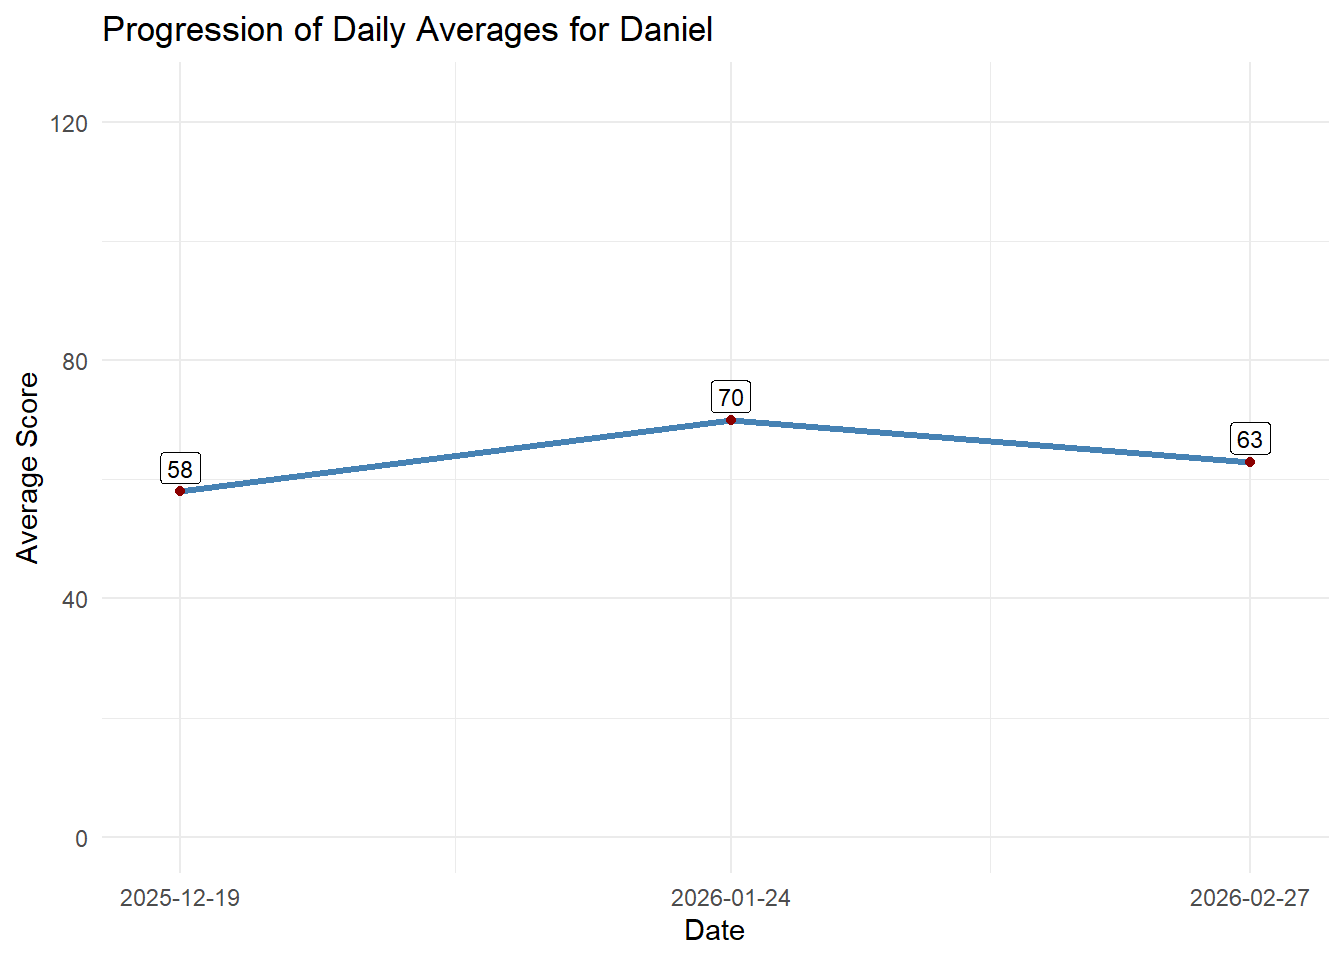
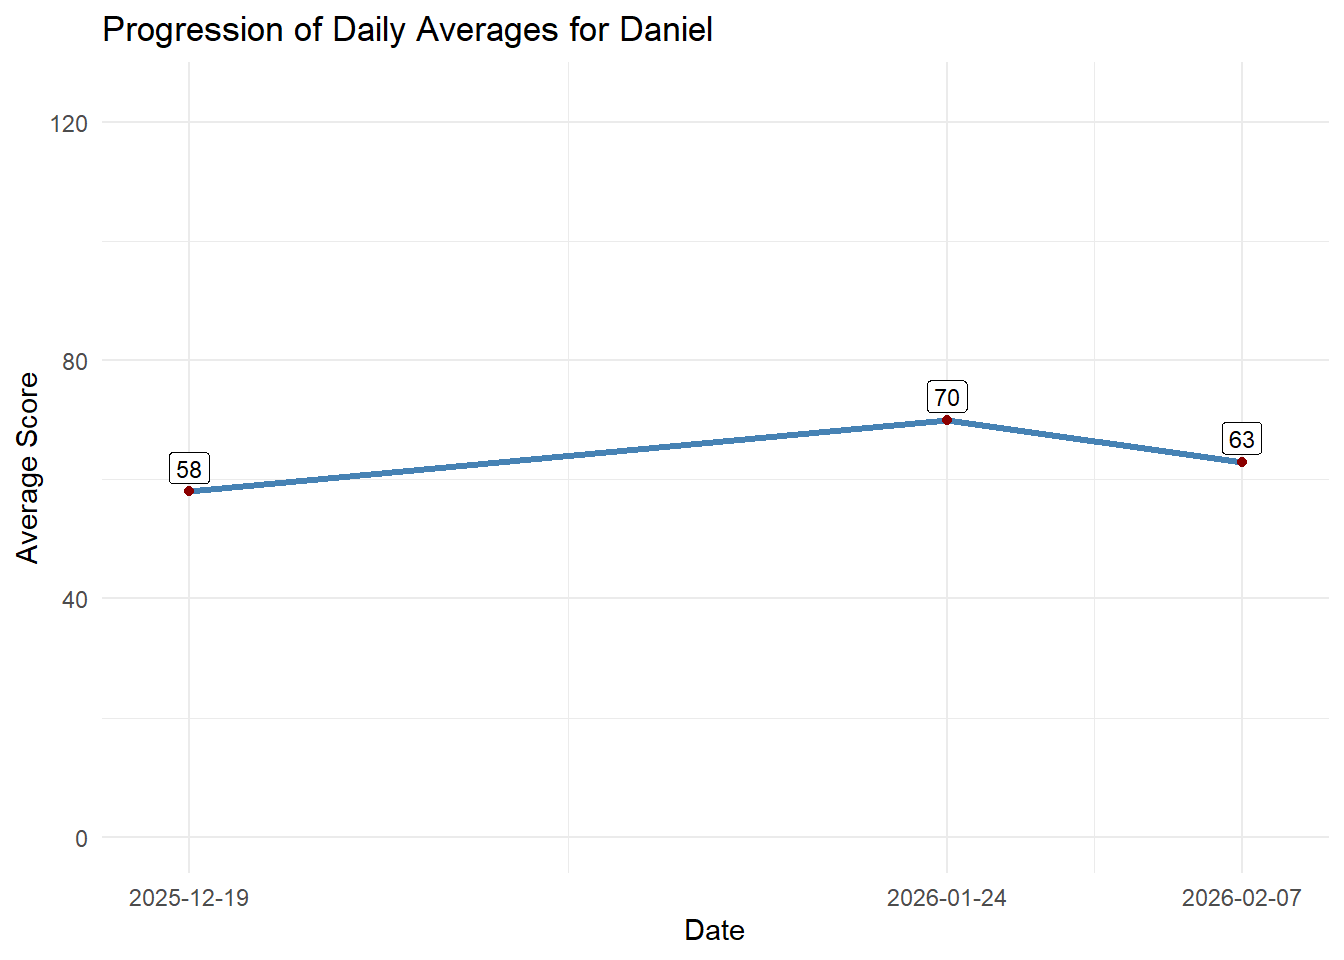
fixed date of 3rd session

diff --git a/docs/sessions.html b/docs/sessions.html
@@ -175,11 +175,11 @@ ul.task-list li input[type="checkbox"] {
 
 <p>The sessions are sorted from new to old.</p>
 <section id="section" class="level2">
-<h2 class="anchored" data-anchor-id="section">27.02.2026</h2>
+<h2 class="anchored" data-anchor-id="section">07.02.2026</h2>
 <div class="cell">
 <div class="cell-output-display">
-<div class="datatables html-widget html-fill-item" id="htmlwidget-2d5ab5caae5f20612820" style="width:100%;height:auto;"></div>
-<script type="application/json" data-for="htmlwidget-2d5ab5caae5f20612820">{"x":{"filter":"none","vertical":false,"data":[["1","2","3","4"],["Niko","Anatolii","Julia","Daniel"],[81,71,63,49],[124,74,68,82],[82,81,70,59],[95.7,75.3,67,63.3],[24.5,5.1,3.6,16.9],[2,2,0,0]],"container":"<table class=\"display\">\n  <thead>\n    <tr>\n      <th> <\/th>\n      <th>Player<\/th>\n      <th>Round 1<\/th>\n      <th>Round 2<\/th>\n      <th>Round 3<\/th>\n      <th>Average Score<\/th>\n      <th>Score Standard Deviation<\/th>\n      <th>Strikes<\/th>\n    <\/tr>\n  <\/thead>\n<\/table>","options":{"dom":"t","paging":false,"searching":false,"info":false,"lengthChange":false,"columnDefs":[{"orderSequence":["desc","asc"],"targets":"_all"},{"className":"dt-right","targets":[2,3,4,5,6,7]},{"orderable":false,"targets":0},{"name":" ","targets":0},{"name":"Player","targets":1},{"name":"Round 1","targets":2},{"name":"Round 2","targets":3},{"name":"Round 3","targets":4},{"name":"Average Score","targets":5},{"name":"Score Standard Deviation","targets":6},{"name":"Strikes","targets":7}],"order":[],"autoWidth":false,"orderClasses":false}},"evals":[],"jsHooks":[]}</script>
+<div class="datatables html-widget html-fill-item" id="htmlwidget-451b7fa52ce0093a3e28" style="width:100%;height:auto;"></div>
+<script type="application/json" data-for="htmlwidget-451b7fa52ce0093a3e28">{"x":{"filter":"none","vertical":false,"data":[["1","2","3","4"],["Niko","Anatolii","Julia","Daniel"],[81,71,63,49],[124,74,68,82],[82,81,70,59],[95.7,75.3,67,63.3],[24.5,5.1,3.6,16.9],[2,2,0,0]],"container":"<table class=\"display\">\n  <thead>\n    <tr>\n      <th> <\/th>\n      <th>Player<\/th>\n      <th>Round 1<\/th>\n      <th>Round 2<\/th>\n      <th>Round 3<\/th>\n      <th>Average Score<\/th>\n      <th>Score Standard Deviation<\/th>\n      <th>Strikes<\/th>\n    <\/tr>\n  <\/thead>\n<\/table>","options":{"dom":"t","paging":false,"searching":false,"info":false,"lengthChange":false,"columnDefs":[{"orderSequence":["desc","asc"],"targets":"_all"},{"className":"dt-right","targets":[2,3,4,5,6,7]},{"orderable":false,"targets":0},{"name":" ","targets":0},{"name":"Player","targets":1},{"name":"Round 1","targets":2},{"name":"Round 2","targets":3},{"name":"Round 3","targets":4},{"name":"Average Score","targets":5},{"name":"Score Standard Deviation","targets":6},{"name":"Strikes","targets":7}],"order":[],"autoWidth":false,"orderClasses":false}},"evals":[],"jsHooks":[]}</script>
 </div>
 </div>
 </section>
@@ -187,8 +187,8 @@ ul.task-list li input[type="checkbox"] {
 <h2 class="anchored" data-anchor-id="section-1">24.01.2026</h2>
 <div class="cell">
 <div class="cell-output-display">
-<div class="datatables html-widget html-fill-item" id="htmlwidget-d58d419d79e0c2dc8a2f" style="width:100%;height:auto;"></div>
-<script type="application/json" data-for="htmlwidget-d58d419d79e0c2dc8a2f">{"x":{"filter":"none","vertical":false,"data":[["1","2","3","4","5"],["Niko","Anatolii","Daniel","Julia","Flora"],[73,73,82,65,46],[101,70,54,81,81],[86,71,75,64,72],[86.7,71.3,70.3,70,66.3],[14,1.5,14.6,9.5,18.2],[2,2,0,3,1]],"container":"<table class=\"display\">\n  <thead>\n    <tr>\n      <th> <\/th>\n      <th>Player<\/th>\n      <th>Round 1<\/th>\n      <th>Round 2<\/th>\n      <th>Round 3<\/th>\n      <th>Average Score<\/th>\n      <th>Score Standard Deviation<\/th>\n      <th>Strikes<\/th>\n    <\/tr>\n  <\/thead>\n<\/table>","options":{"dom":"t","paging":false,"searching":false,"info":false,"lengthChange":false,"columnDefs":[{"orderSequence":["desc","asc"],"targets":"_all"},{"className":"dt-right","targets":[2,3,4,5,6,7]},{"orderable":false,"targets":0},{"name":" ","targets":0},{"name":"Player","targets":1},{"name":"Round 1","targets":2},{"name":"Round 2","targets":3},{"name":"Round 3","targets":4},{"name":"Average Score","targets":5},{"name":"Score Standard Deviation","targets":6},{"name":"Strikes","targets":7}],"order":[],"autoWidth":false,"orderClasses":false}},"evals":[],"jsHooks":[]}</script>
+<div class="datatables html-widget html-fill-item" id="htmlwidget-5ad655e97ea06177efaf" style="width:100%;height:auto;"></div>
+<script type="application/json" data-for="htmlwidget-5ad655e97ea06177efaf">{"x":{"filter":"none","vertical":false,"data":[["1","2","3","4","5"],["Niko","Anatolii","Daniel","Julia","Flora"],[73,73,82,65,46],[101,70,54,81,81],[86,71,75,64,72],[86.7,71.3,70.3,70,66.3],[14,1.5,14.6,9.5,18.2],[2,2,0,3,1]],"container":"<table class=\"display\">\n  <thead>\n    <tr>\n      <th> <\/th>\n      <th>Player<\/th>\n      <th>Round 1<\/th>\n      <th>Round 2<\/th>\n      <th>Round 3<\/th>\n      <th>Average Score<\/th>\n      <th>Score Standard Deviation<\/th>\n      <th>Strikes<\/th>\n    <\/tr>\n  <\/thead>\n<\/table>","options":{"dom":"t","paging":false,"searching":false,"info":false,"lengthChange":false,"columnDefs":[{"orderSequence":["desc","asc"],"targets":"_all"},{"className":"dt-right","targets":[2,3,4,5,6,7]},{"orderable":false,"targets":0},{"name":" ","targets":0},{"name":"Player","targets":1},{"name":"Round 1","targets":2},{"name":"Round 2","targets":3},{"name":"Round 3","targets":4},{"name":"Average Score","targets":5},{"name":"Score Standard Deviation","targets":6},{"name":"Strikes","targets":7}],"order":[],"autoWidth":false,"orderClasses":false}},"evals":[],"jsHooks":[]}</script>
 </div>
 </div>
 </section>
@@ -196,8 +196,8 @@ ul.task-list li input[type="checkbox"] {
 <h2 class="anchored" data-anchor-id="section-2">19.12.2025</h2>
 <div class="cell">
 <div class="cell-output-display">
-<div class="datatables html-widget html-fill-item" id="htmlwidget-bae278842bcefbea813b" style="width:100%;height:auto;"></div>
-<script type="application/json" data-for="htmlwidget-bae278842bcefbea813b">{"x":{"filter":"none","vertical":false,"data":[["1","2","3","4","5"],["Niko","Anatolii","Julia","Flora","Daniel"],[73,61,66,105,48],[97,79,79,51,77],[90,101,79,43,49],[86.7,80.3,74.7,66.3,58],[12.3,20,7.5,33.7,16.5],[3,2,0,2,1]],"container":"<table class=\"display\">\n  <thead>\n    <tr>\n      <th> <\/th>\n      <th>Player<\/th>\n      <th>Round 1<\/th>\n      <th>Round 2<\/th>\n      <th>Round 3<\/th>\n      <th>Average Score<\/th>\n      <th>Score Standard Deviation<\/th>\n      <th>Strikes<\/th>\n    <\/tr>\n  <\/thead>\n<\/table>","options":{"dom":"t","paging":false,"searching":false,"info":false,"lengthChange":false,"columnDefs":[{"orderSequence":["desc","asc"],"targets":"_all"},{"className":"dt-right","targets":[2,3,4,5,6,7]},{"orderable":false,"targets":0},{"name":" ","targets":0},{"name":"Player","targets":1},{"name":"Round 1","targets":2},{"name":"Round 2","targets":3},{"name":"Round 3","targets":4},{"name":"Average Score","targets":5},{"name":"Score Standard Deviation","targets":6},{"name":"Strikes","targets":7}],"order":[],"autoWidth":false,"orderClasses":false}},"evals":[],"jsHooks":[]}</script>
+<div class="datatables html-widget html-fill-item" id="htmlwidget-06abafb8ae99760b7fad" style="width:100%;height:auto;"></div>
+<script type="application/json" data-for="htmlwidget-06abafb8ae99760b7fad">{"x":{"filter":"none","vertical":false,"data":[["1","2","3","4","5"],["Niko","Anatolii","Julia","Flora","Daniel"],[73,61,66,105,48],[97,79,79,51,77],[90,101,79,43,49],[86.7,80.3,74.7,66.3,58],[12.3,20,7.5,33.7,16.5],[3,2,0,2,1]],"container":"<table class=\"display\">\n  <thead>\n    <tr>\n      <th> <\/th>\n      <th>Player<\/th>\n      <th>Round 1<\/th>\n      <th>Round 2<\/th>\n      <th>Round 3<\/th>\n      <th>Average Score<\/th>\n      <th>Score Standard Deviation<\/th>\n      <th>Strikes<\/th>\n    <\/tr>\n  <\/thead>\n<\/table>","options":{"dom":"t","paging":false,"searching":false,"info":false,"lengthChange":false,"columnDefs":[{"orderSequence":["desc","asc"],"targets":"_all"},{"className":"dt-right","targets":[2,3,4,5,6,7]},{"orderable":false,"targets":0},{"name":" ","targets":0},{"name":"Player","targets":1},{"name":"Round 1","targets":2},{"name":"Round 2","targets":3},{"name":"Round 3","targets":4},{"name":"Average Score","targets":5},{"name":"Score Standard Deviation","targets":6},{"name":"Strikes","targets":7}],"order":[],"autoWidth":false,"orderClasses":false}},"evals":[],"jsHooks":[]}</script>
 </div>
 </div>
 

diff --git a/docs/index.html b/docs/index.html
@@ -175,8 +175,8 @@ ul.task-list li input[type="checkbox"] {
 
 <div class="cell">
 <div class="cell-output-display">
-<div class="datatables html-widget html-fill-item" id="htmlwidget-2e87569fb5321fa95211" style="width:100%;height:auto;"></div>
-<script type="application/json" data-for="htmlwidget-2e87569fb5321fa95211">{"x":{"filter":"none","vertical":false,"data":[["1","2","3","4","5"],["Niko","Anatolii","Julia","Flora","Daniel"],[9,9,9,6,9],[89.7,75.7,70.59999999999999,66.3,63.9],[124,101,81,105,82],[73,61,63,43,48],[16.1,11.1,7.2,24.2,14.9],[0.8,0.7,0.3,0.5,0.1]],"container":"<table class=\"display\">\n  <thead>\n    <tr>\n      <th> <\/th>\n      <th>Player<\/th>\n      <th>Total Rounds Played<\/th>\n      <th>Average Score<\/th>\n      <th>Best Score<\/th>\n      <th>Worst Score<\/th>\n      <th>Score Standard Deviation<\/th>\n      <th>Strikes/ Game<\/th>\n    <\/tr>\n  <\/thead>\n<\/table>","options":{"dom":"t","paging":false,"searching":false,"info":false,"lengthChange":false,"columnDefs":[{"orderSequence":["desc","asc"],"targets":"_all"},{"className":"dt-right","targets":[2,3,4,5,6,7]},{"orderable":false,"targets":0},{"name":" ","targets":0},{"name":"Player","targets":1},{"name":"Total Rounds Played","targets":2},{"name":"Average Score","targets":3},{"name":"Best Score","targets":4},{"name":"Worst Score","targets":5},{"name":"Score Standard Deviation","targets":6},{"name":"Strikes/ Game","targets":7}],"order":[],"autoWidth":false,"orderClasses":false}},"evals":[],"jsHooks":[]}</script>
+<div class="datatables html-widget html-fill-item" id="htmlwidget-2dc484cc56245abd1d54" style="width:100%;height:auto;"></div>
+<script type="application/json" data-for="htmlwidget-2dc484cc56245abd1d54">{"x":{"filter":"none","vertical":false,"data":[["1","2","3","4","5"],["Niko","Anatolii","Julia","Flora","Daniel"],[9,9,9,6,9],[89.7,75.7,70.59999999999999,66.3,63.9],[124,101,81,105,82],[73,61,63,43,48],[16.1,11.1,7.2,24.2,14.9],[0.8,0.7,0.3,0.5,0.1]],"container":"<table class=\"display\">\n  <thead>\n    <tr>\n      <th> <\/th>\n      <th>Player<\/th>\n      <th>Total Rounds Played<\/th>\n      <th>Average Score<\/th>\n      <th>Best Score<\/th>\n      <th>Worst Score<\/th>\n      <th>Score Standard Deviation<\/th>\n      <th>Strikes/ Game<\/th>\n    <\/tr>\n  <\/thead>\n<\/table>","options":{"dom":"t","paging":false,"searching":false,"info":false,"lengthChange":false,"columnDefs":[{"orderSequence":["desc","asc"],"targets":"_all"},{"className":"dt-right","targets":[2,3,4,5,6,7]},{"orderable":false,"targets":0},{"name":" ","targets":0},{"name":"Player","targets":1},{"name":"Total Rounds Played","targets":2},{"name":"Average Score","targets":3},{"name":"Best Score","targets":4},{"name":"Worst Score","targets":5},{"name":"Score Standard Deviation","targets":6},{"name":"Strikes/ Game","targets":7}],"order":[],"autoWidth":false,"orderClasses":false}},"evals":[],"jsHooks":[]}</script>
 </div>
 </div>
 

diff --git a/docs/players/julia.html b/docs/players/julia.html
@@ -175,8 +175,8 @@ ul.task-list li input[type="checkbox"] {
 <h2 class="anchored" data-anchor-id="stats-overview">Stats Overview</h2>
 <div class="cell">
 <div class="cell-output-display">
-<div class="datatables html-widget html-fill-item" id="htmlwidget-33df0b5c3f3cdd957ced" style="width:100%;height:auto;"></div>
-<script type="application/json" data-for="htmlwidget-33df0b5c3f3cdd957ced">{"x":{"filter":"none","vertical":false,"data":[[9],[81],[63],[70.59999999999999],[7.2],[0.3]],"container":"<table class=\"display\">\n  <thead>\n    <tr>\n      <th>Total Rounds Played<\/th>\n      <th>Highest Score<\/th>\n      <th>Lowest Score<\/th>\n      <th>Average Score<\/th>\n      <th>Score Standard Deviation<\/th>\n      <th>Strikes/ Game<\/th>\n    <\/tr>\n  <\/thead>\n<\/table>","options":{"dom":"t","paging":false,"searching":false,"info":false,"lengthChange":false,"columnDefs":[{"className":"dt-right","targets":[0,1,2,3,4,5]},{"name":"Total Rounds Played","targets":0},{"name":"Highest Score","targets":1},{"name":"Lowest Score","targets":2},{"name":"Average Score","targets":3},{"name":"Score Standard Deviation","targets":4},{"name":"Strikes/ Game","targets":5}],"order":[],"autoWidth":false,"orderClasses":false}},"evals":[],"jsHooks":[]}</script>
+<div class="datatables html-widget html-fill-item" id="htmlwidget-b8df6499a0a86f296850" style="width:100%;height:auto;"></div>
+<script type="application/json" data-for="htmlwidget-b8df6499a0a86f296850">{"x":{"filter":"none","vertical":false,"data":[[9],[81],[63],[70.59999999999999],[7.2],[0.3]],"container":"<table class=\"display\">\n  <thead>\n    <tr>\n      <th>Total Rounds Played<\/th>\n      <th>Highest Score<\/th>\n      <th>Lowest Score<\/th>\n      <th>Average Score<\/th>\n      <th>Score Standard Deviation<\/th>\n      <th>Strikes/ Game<\/th>\n    <\/tr>\n  <\/thead>\n<\/table>","options":{"dom":"t","paging":false,"searching":false,"info":false,"lengthChange":false,"columnDefs":[{"className":"dt-right","targets":[0,1,2,3,4,5]},{"name":"Total Rounds Played","targets":0},{"name":"Highest Score","targets":1},{"name":"Lowest Score","targets":2},{"name":"Average Score","targets":3},{"name":"Score Standard Deviation","targets":4},{"name":"Strikes/ Game","targets":5}],"order":[],"autoWidth":false,"orderClasses":false}},"evals":[],"jsHooks":[]}</script>
 </div>
 </div>
 </section>

diff --git a/docs/players/anatolii.html b/docs/players/anatolii.html
@@ -175,8 +175,8 @@ ul.task-list li input[type="checkbox"] {
 <h2 class="anchored" data-anchor-id="stats-overview">Stats Overview</h2>
 <div class="cell">
 <div class="cell-output-display">
-<div class="datatables html-widget html-fill-item" id="htmlwidget-d4becd0b38454958d956" style="width:100%;height:auto;"></div>
-<script type="application/json" data-for="htmlwidget-d4becd0b38454958d956">{"x":{"filter":"none","vertical":false,"data":[[9],[101],[61],[75.7],[11.1],[0.7]],"container":"<table class=\"display\">\n  <thead>\n    <tr>\n      <th>Total Rounds Played<\/th>\n      <th>Highest Score<\/th>\n      <th>Lowest Score<\/th>\n      <th>Average Score<\/th>\n      <th>Score Standard Deviation<\/th>\n      <th>Strikes/ Game<\/th>\n    <\/tr>\n  <\/thead>\n<\/table>","options":{"dom":"t","paging":false,"searching":false,"info":false,"lengthChange":false,"columnDefs":[{"className":"dt-right","targets":[0,1,2,3,4,5]},{"name":"Total Rounds Played","targets":0},{"name":"Highest Score","targets":1},{"name":"Lowest Score","targets":2},{"name":"Average Score","targets":3},{"name":"Score Standard Deviation","targets":4},{"name":"Strikes/ Game","targets":5}],"order":[],"autoWidth":false,"orderClasses":false}},"evals":[],"jsHooks":[]}</script>
+<div class="datatables html-widget html-fill-item" id="htmlwidget-46a0c90fb6b9b9fbff91" style="width:100%;height:auto;"></div>
+<script type="application/json" data-for="htmlwidget-46a0c90fb6b9b9fbff91">{"x":{"filter":"none","vertical":false,"data":[[9],[101],[61],[75.7],[11.1],[0.7]],"container":"<table class=\"display\">\n  <thead>\n    <tr>\n      <th>Total Rounds Played<\/th>\n      <th>Highest Score<\/th>\n      <th>Lowest Score<\/th>\n      <th>Average Score<\/th>\n      <th>Score Standard Deviation<\/th>\n      <th>Strikes/ Game<\/th>\n    <\/tr>\n  <\/thead>\n<\/table>","options":{"dom":"t","paging":false,"searching":false,"info":false,"lengthChange":false,"columnDefs":[{"className":"dt-right","targets":[0,1,2,3,4,5]},{"name":"Total Rounds Played","targets":0},{"name":"Highest Score","targets":1},{"name":"Lowest Score","targets":2},{"name":"Average Score","targets":3},{"name":"Score Standard Deviation","targets":4},{"name":"Strikes/ Game","targets":5}],"order":[],"autoWidth":false,"orderClasses":false}},"evals":[],"jsHooks":[]}</script>
 </div>
 </div>
 </section>

diff --git a/docs/players/flora.html b/docs/players/flora.html
@@ -175,8 +175,8 @@ ul.task-list li input[type="checkbox"] {
 <h2 class="anchored" data-anchor-id="stats-overview">Stats Overview</h2>
 <div class="cell">
 <div class="cell-output-display">
-<div class="datatables html-widget html-fill-item" id="htmlwidget-685af16c9be176a5cff3" style="width:100%;height:auto;"></div>
-<script type="application/json" data-for="htmlwidget-685af16c9be176a5cff3">{"x":{"filter":"none","vertical":false,"data":[[6],[105],[43],[66.3],[24.2],[0.5]],"container":"<table class=\"display\">\n  <thead>\n    <tr>\n      <th>Total Rounds Played<\/th>\n      <th>Highest Score<\/th>\n      <th>Lowest Score<\/th>\n      <th>Average Score<\/th>\n      <th>Score Standard Deviation<\/th>\n      <th>Strikes/ Game<\/th>\n    <\/tr>\n  <\/thead>\n<\/table>","options":{"dom":"t","paging":false,"searching":false,"info":false,"lengthChange":false,"columnDefs":[{"className":"dt-right","targets":[0,1,2,3,4,5]},{"name":"Total Rounds Played","targets":0},{"name":"Highest Score","targets":1},{"name":"Lowest Score","targets":2},{"name":"Average Score","targets":3},{"name":"Score Standard Deviation","targets":4},{"name":"Strikes/ Game","targets":5}],"order":[],"autoWidth":false,"orderClasses":false}},"evals":[],"jsHooks":[]}</script>
+<div class="datatables html-widget html-fill-item" id="htmlwidget-3155a61ddbbb7085ca68" style="width:100%;height:auto;"></div>
+<script type="application/json" data-for="htmlwidget-3155a61ddbbb7085ca68">{"x":{"filter":"none","vertical":false,"data":[[6],[105],[43],[66.3],[24.2],[0.5]],"container":"<table class=\"display\">\n  <thead>\n    <tr>\n      <th>Total Rounds Played<\/th>\n      <th>Highest Score<\/th>\n      <th>Lowest Score<\/th>\n      <th>Average Score<\/th>\n      <th>Score Standard Deviation<\/th>\n      <th>Strikes/ Game<\/th>\n    <\/tr>\n  <\/thead>\n<\/table>","options":{"dom":"t","paging":false,"searching":false,"info":false,"lengthChange":false,"columnDefs":[{"className":"dt-right","targets":[0,1,2,3,4,5]},{"name":"Total Rounds Played","targets":0},{"name":"Highest Score","targets":1},{"name":"Lowest Score","targets":2},{"name":"Average Score","targets":3},{"name":"Score Standard Deviation","targets":4},{"name":"Strikes/ Game","targets":5}],"order":[],"autoWidth":false,"orderClasses":false}},"evals":[],"jsHooks":[]}</script>
 </div>
 </div>
 </section>

diff --git a/docs/players/niko.html b/docs/players/niko.html
@@ -175,8 +175,8 @@ ul.task-list li input[type="checkbox"] {
 <h2 class="anchored" data-anchor-id="stats-overview">Stats Overview</h2>
 <div class="cell">
 <div class="cell-output-display">
-<div class="datatables html-widget html-fill-item" id="htmlwidget-ebfbfb7993629ab3c957" style="width:100%;height:auto;"></div>
-<script type="application/json" data-for="htmlwidget-ebfbfb7993629ab3c957">{"x":{"filter":"none","vertical":false,"data":[[9],[124],[73],[89.7],[16.1],[0.8]],"container":"<table class=\"display\">\n  <thead>\n    <tr>\n      <th>Total Rounds Played<\/th>\n      <th>Highest Score<\/th>\n      <th>Lowest Score<\/th>\n      <th>Average Score<\/th>\n      <th>Score Standard Deviation<\/th>\n      <th>Strikes/ Game<\/th>\n    <\/tr>\n  <\/thead>\n<\/table>","options":{"dom":"t","paging":false,"searching":false,"info":false,"lengthChange":false,"columnDefs":[{"className":"dt-right","targets":[0,1,2,3,4,5]},{"name":"Total Rounds Played","targets":0},{"name":"Highest Score","targets":1},{"name":"Lowest Score","targets":2},{"name":"Average Score","targets":3},{"name":"Score Standard Deviation","targets":4},{"name":"Strikes/ Game","targets":5}],"order":[],"autoWidth":false,"orderClasses":false}},"evals":[],"jsHooks":[]}</script>
+<div class="datatables html-widget html-fill-item" id="htmlwidget-5b850f4a2d43436e10e2" style="width:100%;height:auto;"></div>
+<script type="application/json" data-for="htmlwidget-5b850f4a2d43436e10e2">{"x":{"filter":"none","vertical":false,"data":[[9],[124],[73],[89.7],[16.1],[0.8]],"container":"<table class=\"display\">\n  <thead>\n    <tr>\n      <th>Total Rounds Played<\/th>\n      <th>Highest Score<\/th>\n      <th>Lowest Score<\/th>\n      <th>Average Score<\/th>\n      <th>Score Standard Deviation<\/th>\n      <th>Strikes/ Game<\/th>\n    <\/tr>\n  <\/thead>\n<\/table>","options":{"dom":"t","paging":false,"searching":false,"info":false,"lengthChange":false,"columnDefs":[{"className":"dt-right","targets":[0,1,2,3,4,5]},{"name":"Total Rounds Played","targets":0},{"name":"Highest Score","targets":1},{"name":"Lowest Score","targets":2},{"name":"Average Score","targets":3},{"name":"Score Standard Deviation","targets":4},{"name":"Strikes/ Game","targets":5}],"order":[],"autoWidth":false,"orderClasses":false}},"evals":[],"jsHooks":[]}</script>
 </div>
 </div>
 </section>

diff --git a/docs/players/daniel.html b/docs/players/daniel.html
@@ -175,8 +175,8 @@ ul.task-list li input[type="checkbox"] {
 <h2 class="anchored" data-anchor-id="stats-overview">Stats Overview</h2>
 <div class="cell">
 <div class="cell-output-display">
-<div class="datatables html-widget html-fill-item" id="htmlwidget-15c7ee9fb14c4f6b0bd8" style="width:100%;height:auto;"></div>
-<script type="application/json" data-for="htmlwidget-15c7ee9fb14c4f6b0bd8">{"x":{"filter":"none","vertical":false,"data":[[9],[82],[48],[63.9],[14.9],[0.1]],"container":"<table class=\"display\">\n  <thead>\n    <tr>\n      <th>Total Rounds Played<\/th>\n      <th>Highest Score<\/th>\n      <th>Lowest Score<\/th>\n      <th>Average Score<\/th>\n      <th>Score Standard Deviation<\/th>\n      <th>Strikes/ Game<\/th>\n    <\/tr>\n  <\/thead>\n<\/table>","options":{"dom":"t","paging":false,"searching":false,"info":false,"lengthChange":false,"columnDefs":[{"className":"dt-right","targets":[0,1,2,3,4,5]},{"name":"Total Rounds Played","targets":0},{"name":"Highest Score","targets":1},{"name":"Lowest Score","targets":2},{"name":"Average Score","targets":3},{"name":"Score Standard Deviation","targets":4},{"name":"Strikes/ Game","targets":5}],"order":[],"autoWidth":false,"orderClasses":false}},"evals":[],"jsHooks":[]}</script>
+<div class="datatables html-widget html-fill-item" id="htmlwidget-d418a6c8c8ad128f5e1f" style="width:100%;height:auto;"></div>
+<script type="application/json" data-for="htmlwidget-d418a6c8c8ad128f5e1f">{"x":{"filter":"none","vertical":false,"data":[[9],[82],[48],[63.9],[14.9],[0.1]],"container":"<table class=\"display\">\n  <thead>\n    <tr>\n      <th>Total Rounds Played<\/th>\n      <th>Highest Score<\/th>\n      <th>Lowest Score<\/th>\n      <th>Average Score<\/th>\n      <th>Score Standard Deviation<\/th>\n      <th>Strikes/ Game<\/th>\n    <\/tr>\n  <\/thead>\n<\/table>","options":{"dom":"t","paging":false,"searching":false,"info":false,"lengthChange":false,"columnDefs":[{"className":"dt-right","targets":[0,1,2,3,4,5]},{"name":"Total Rounds Played","targets":0},{"name":"Highest Score","targets":1},{"name":"Lowest Score","targets":2},{"name":"Average Score","targets":3},{"name":"Score Standard Deviation","targets":4},{"name":"Strikes/ Game","targets":5}],"order":[],"autoWidth":false,"orderClasses":false}},"evals":[],"jsHooks":[]}</script>
 </div>
 </div>
 </section>

diff --git a/docs/players/nico.html b/docs/players/nico.html
@@ -183,8 +183,8 @@ Caused by warning in `max()`:
 ℹ Run `dplyr::last_dplyr_warnings()` to see the 1 remaining warning.</code></pre>
 </div>
 <div class="cell-output-display">
-<div class="datatables html-widget html-fill-item" id="htmlwidget-f5d23fd5d3e6af27c96b" style="width:100%;height:auto;"></div>
-<script type="application/json" data-for="htmlwidget-f5d23fd5d3e6af27c96b">{"x":{"filter":"none","vertical":false,"data":[[0],[null],[null],[null],[null],[null]],"container":"<table class=\"display\">\n  <thead>\n    <tr>\n      <th>Total Rounds Played<\/th>\n      <th>Highest Score<\/th>\n      <th>Lowest Score<\/th>\n      <th>Average Score<\/th>\n      <th>Score Standard Deviation<\/th>\n      <th>Strikes/ Game<\/th>\n    <\/tr>\n  <\/thead>\n<\/table>","options":{"dom":"t","paging":false,"searching":false,"info":false,"lengthChange":false,"columnDefs":[{"className":"dt-right","targets":[0,1,2,3,4,5]},{"name":"Total Rounds Played","targets":0},{"name":"Highest Score","targets":1},{"name":"Lowest Score","targets":2},{"name":"Average Score","targets":3},{"name":"Score Standard Deviation","targets":4},{"name":"Strikes/ Game","targets":5}],"order":[],"autoWidth":false,"orderClasses":false}},"evals":[],"jsHooks":[]}</script>
+<div class="datatables html-widget html-fill-item" id="htmlwidget-4fb61c9b11f24fcf218f" style="width:100%;height:auto;"></div>
+<script type="application/json" data-for="htmlwidget-4fb61c9b11f24fcf218f">{"x":{"filter":"none","vertical":false,"data":[[0],[null],[null],[null],[null],[null]],"container":"<table class=\"display\">\n  <thead>\n    <tr>\n      <th>Total Rounds Played<\/th>\n      <th>Highest Score<\/th>\n      <th>Lowest Score<\/th>\n      <th>Average Score<\/th>\n      <th>Score Standard Deviation<\/th>\n      <th>Strikes/ Game<\/th>\n    <\/tr>\n  <\/thead>\n<\/table>","options":{"dom":"t","paging":false,"searching":false,"info":false,"lengthChange":false,"columnDefs":[{"className":"dt-right","targets":[0,1,2,3,4,5]},{"name":"Total Rounds Played","targets":0},{"name":"Highest Score","targets":1},{"name":"Lowest Score","targets":2},{"name":"Average Score","targets":3},{"name":"Score Standard Deviation","targets":4},{"name":"Strikes/ Game","targets":5}],"order":[],"autoWidth":false,"orderClasses":false}},"evals":[],"jsHooks":[]}</script>
 </div>
 </div>
 </section>
